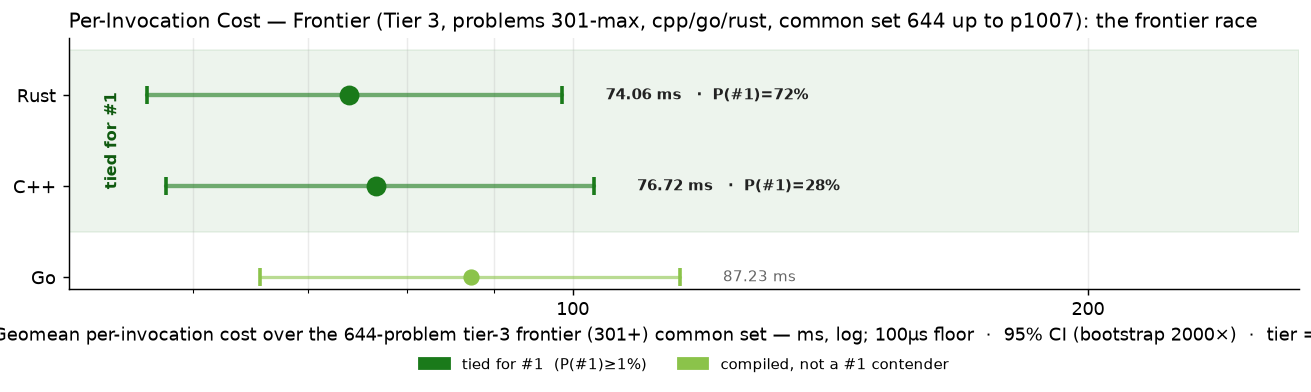
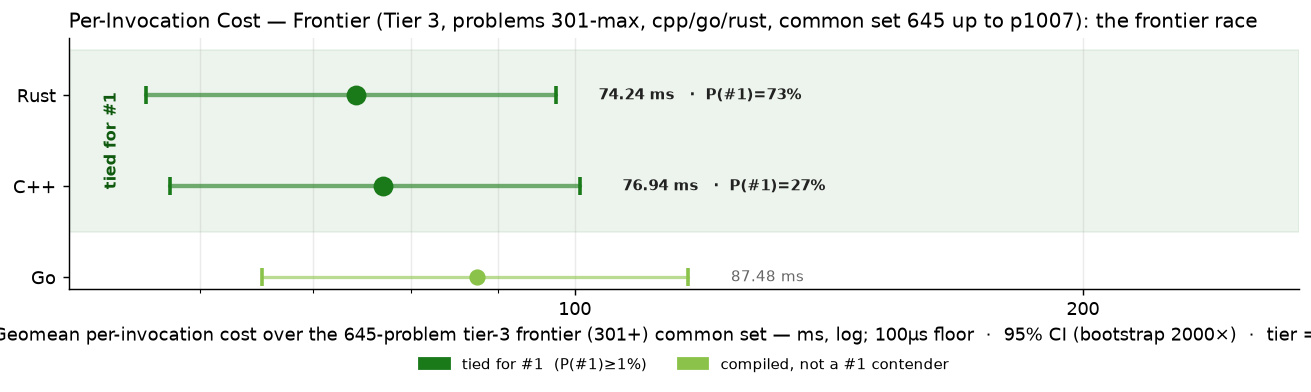
cpp p0803

diff --git a/RESULTS.md b/RESULTS.md
@@ -1,6 +1,6 @@
 # Project Euler — Cross-Language Benchmarks
 
-> **Scope: 4521 in-scope cells across 1007 problems × tiered languages — 4394 measured (97.2% coverage).**
+> **Scope: 4521 in-scope cells across 1007 problems × tiered languages — 4395 measured (97.2% coverage).**
 > The cross-language ranking below is computed over the **200-problem common set** (problems in 1-200 where every language has a passing measurement) — the apples-to-apples Foundation comparison surface.  Per-tier rankings and coverage detail appear further below.
 > Growing carefully — each new problem and language is audited for state-leak
 > safety, verified for answer correctness, and added only when it cleanly fits the
@@ -70,15 +70,15 @@ Same scatter as the Foundation chart, restricted to the tier-2 active languages 
 
 The frontier verification trio — C++, Go, Rust — on problems above 300. 3-way cross-language agreement is the verification protocol (strictly stronger than 2-way; see JOURNEY.md "Tier Reframing" episode for the p254 lesson that motivated it). Python and Zig are explicitly out of this tier — python's wall cost makes it impractical at level 5+, and zig's role caps at Tier 2.
 
-### Per-Invocation Cost (Common Set, 644 of ≤707 problems in scope)
+### Per-Invocation Cost (Common Set, 645 of ≤707 problems in scope)
 
 ![Per-Invocation Cost — Tier 3](charts/per_iter_total_tier3.png)
 
-| Rank | Language | Geomean (644-problem common set) | Total (sum) | Lines of code | vs Fastest |
+| Rank | Language | Geomean (645-problem common set) | Total (sum) | Lines of code | vs Fastest |
 |------|----------|--------------------:|------------:|--------------:|-----------:|
-| 1 | **Rust** | 74.06 ms | 1750.28 s | 128,434 | 1.00× |
-| 2 | **C++** | 76.72 ms | 1884.57 s | 93,466 | 1.04× |
-| 3 | **Go** | 87.23 ms | 2122.72 s | 119,164 | 1.18× |
+| 1 | **Rust** | 74.24 ms | 1750.63 s | 128,685 | 1.00× |
+| 2 | **C++** | 76.94 ms | 1885.04 s | 93,638 | 1.04× |
+| 3 | **Go** | 87.48 ms | 2123.30 s | 119,410 | 1.18× |
 
 ### Speed vs Code Size
 
@@ -264,7 +264,7 @@ table never silently mixes versions (METHODOLOGY.md §4).  Current state of the
 |----------|-----------|------:|---------------|
 | **ARM64** | `Apple clang version 21.0.0 (clang-2100.1.1.101)` | 200 | 2026-07-30 |
 | **C** | `Apple clang version 21.0.0 (clang-2100.1.1.101)` | 200 | 2026-07-30 |
-| **C++** | `Apple clang version 21.0.0 (clang-2100.1.1.101)` | 945 | 2026-09-05 |
+| **C++** | `Apple clang version 21.0.0 (clang-2100.1.1.101)` | 946 | 2026-09-05 |
 | **C#** | `10.0.101` | 200 | 2026-07-30 |
 | **Go** | `go version go1.26.5 darwin/arm64` | 947 | 2026-09-05 |
 | **Java** | `openjdk version "21.0.2" 2024-01-16 LTS` | 200 | 2026-07-30 |

diff --git a/per_problem/per_problem_0801-0900.md b/per_problem/per_problem_0801-0900.md
@@ -10,7 +10,7 @@ in tier-1 display order (native → managed → interpreted).
 |---------|----:|----:|----:|
 | **p0801** | 734.66 ms | 966.08 ms | 144.01 ms |
 | **p0802** | 36.07 ms | 93.92 ms | 39.15 ms |
-| **p0803** | — | 359.22 ms | 578.52 ms |
+| **p0803** | 463.88 ms | 359.22 ms | 578.52 ms |
 | **p0804** | 225.33 ms | 250.71 ms | 192.56 ms |
 | **p0805** | — | 27.52 ms | — |
 | **p0806** | — | 220.58 ms | — |
